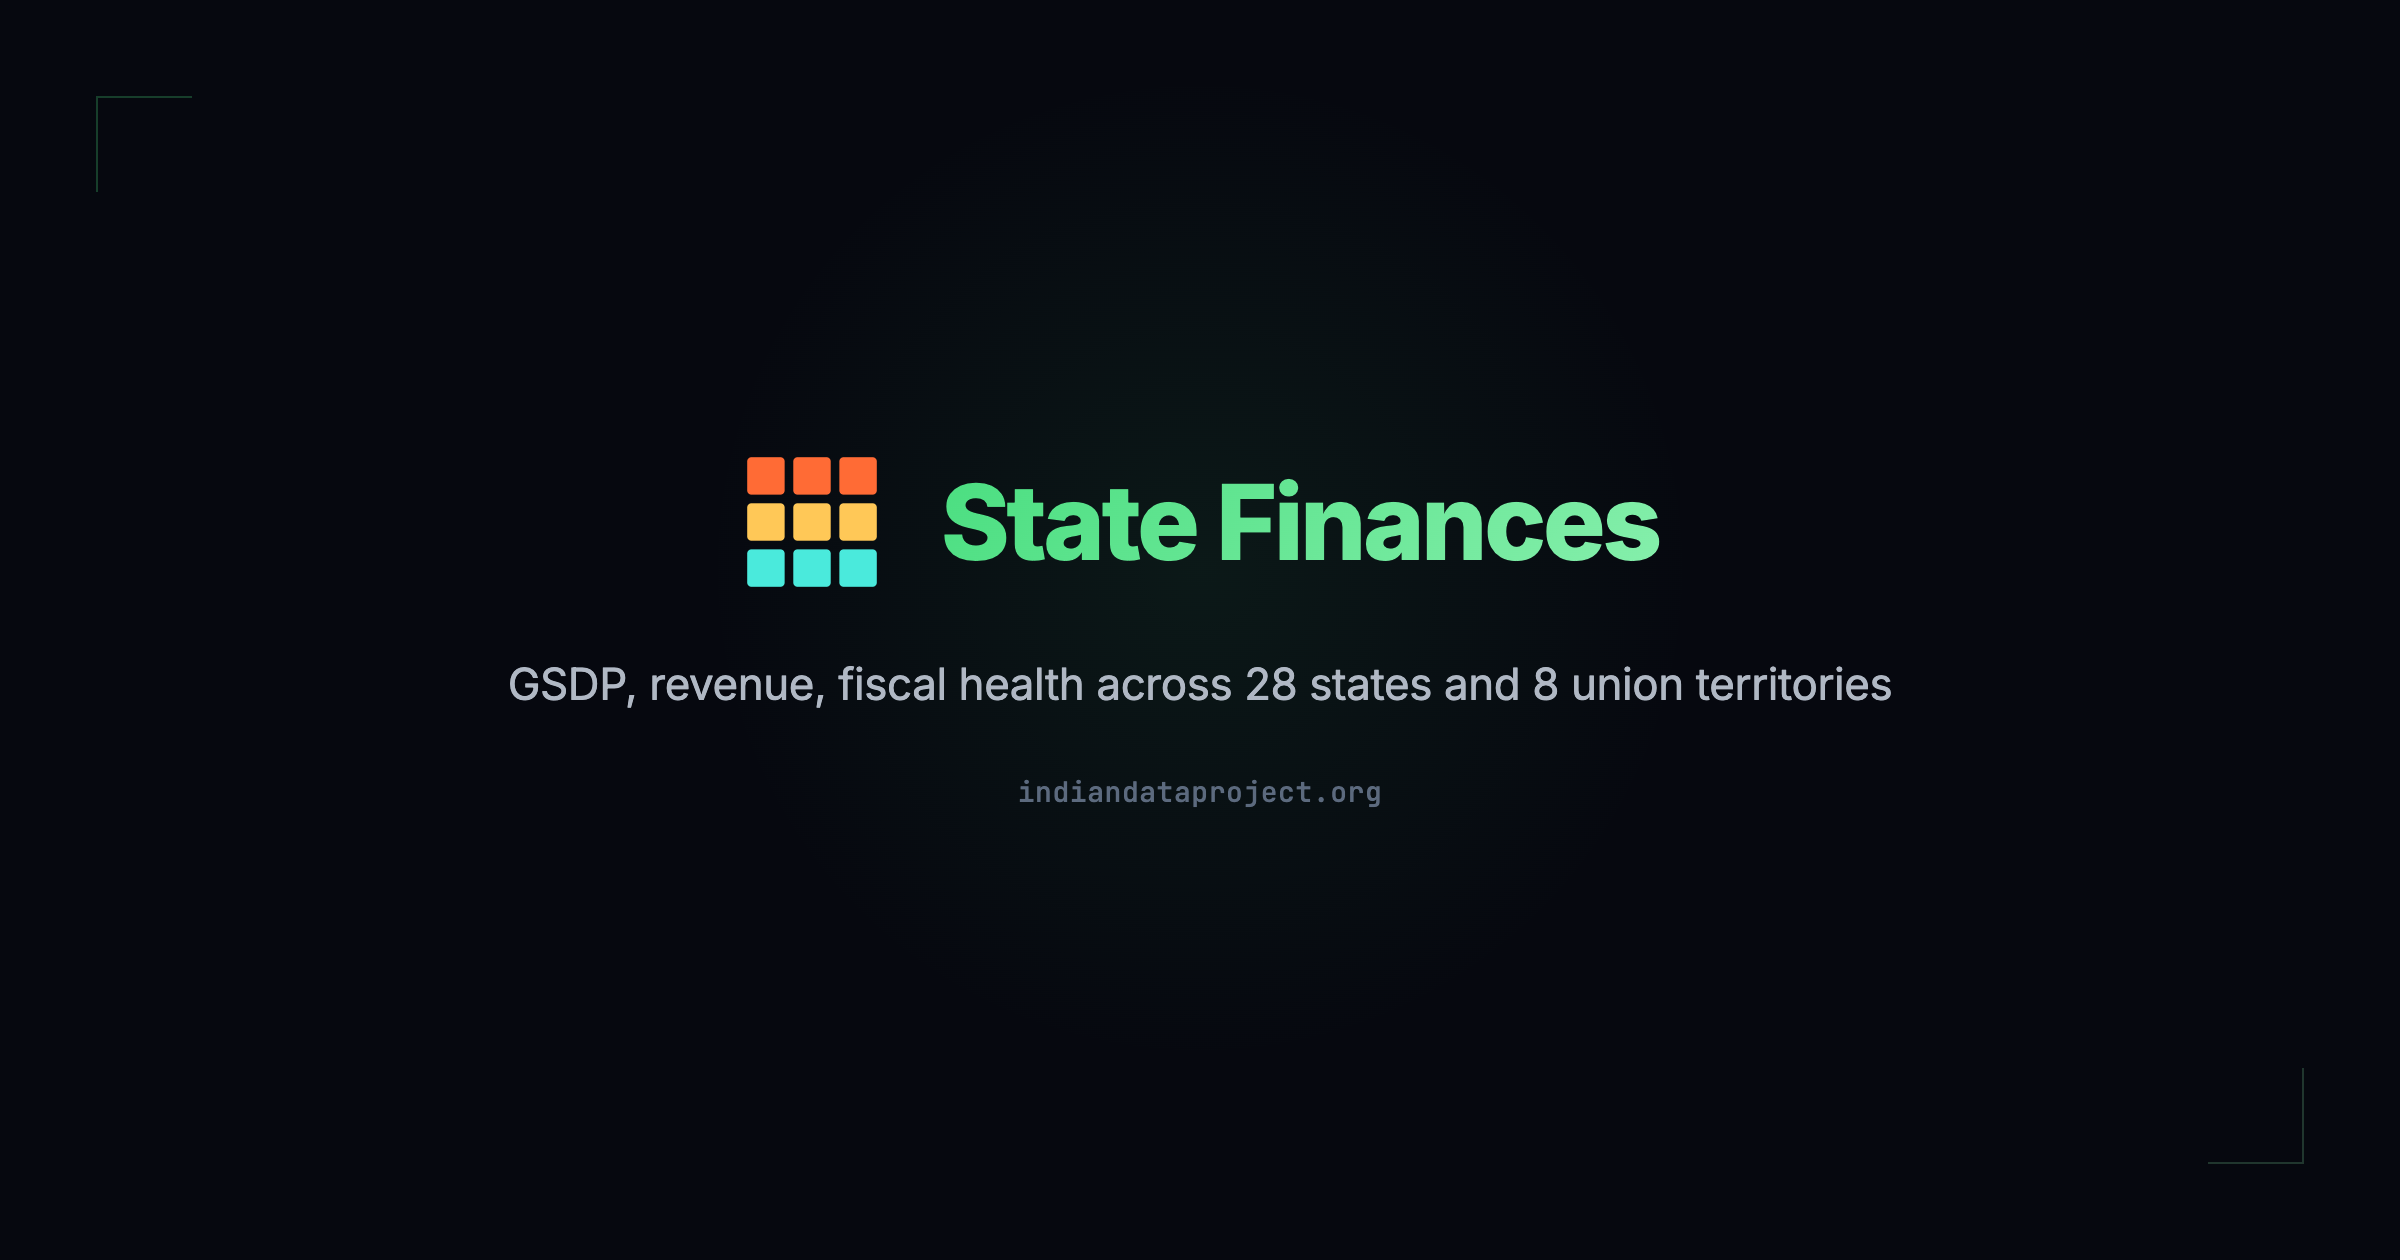
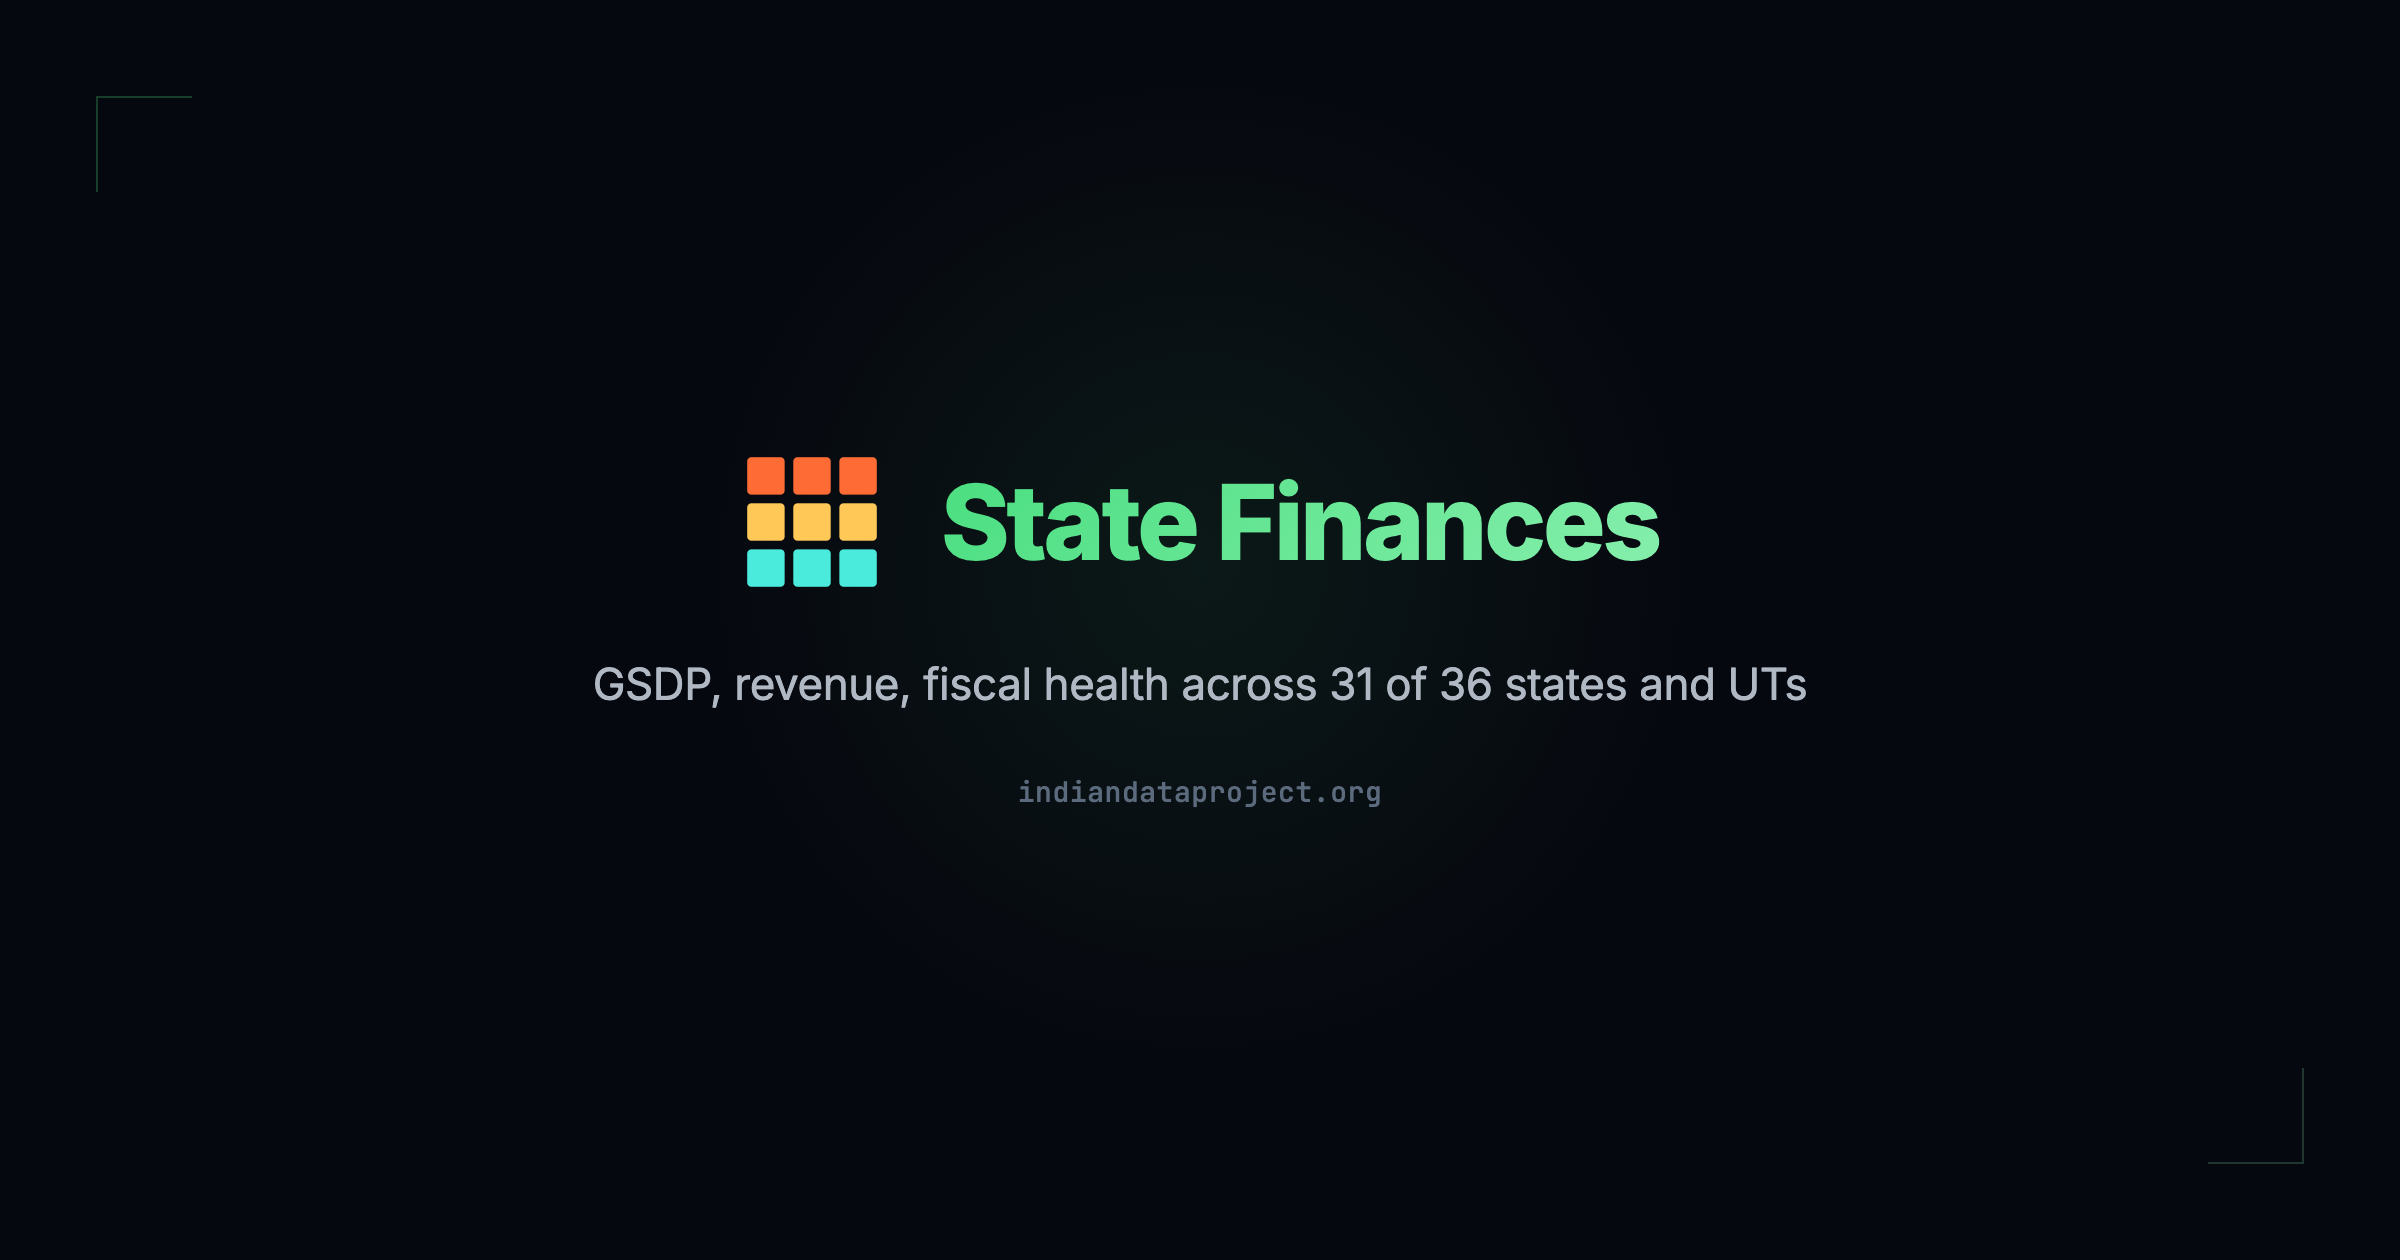
fix(content): resolve all 6 Codex round-12 cross-surface inconsistencies
- budget revenue receipts 34,20,905 -> 34,20,409 (index.html noscript,
  llms.txt) matching summary.json
- agriculture 15% GDP -> ~17% GVA (llms topic line, agriculture OG desc)
- healthcare: story-kit OOP ~48 -> ~45%, WHO beds 3 -> 3.5, doctor line
  now 0.7/1,000 actual vs WHO norm 1; llms OOP 48 -> 45%
- HealthcarePage Rs19/day -> Rs21/day (pill + bridge + highlight),
  matching the questions.json derivation (3.3% of Rs2,38,103 pc GDP)
- states coverage phrased as 31 of 36 states/UTs in index.html feature
  list + JSON-LD, inject-og and generate-og (OG cards regenerated)
- RBI docs: PIPELINE_DATA_SOURCES 56 -> 28 decisions Jan 2014-Dec 2025;
  CURATED_DATA_AUDIT supersession note extended with RBI clause

Claude-Session: https://claude.ai/code/session_01CXmejc6yxodKLUKZKHeqSA

Changed region(s): [[0.2188, 0.5262, 0.7812, 0.5571]]

diff --git a/src/lib/storyKitConfigs/health-infrastructure.ts b/src/lib/storyKitConfigs/health-infrastructure.ts
@@ -5,7 +5,7 @@ export const HEALTH_INFRASTRUCTURE: StoryKitDef = {
   title: "India's Health Infrastructure",
   subtitle: "COVID exposed the gaps. Three years later, how does India's health system measure up — in beds, doctors, spending, and immunization?",
   accent: '#F43F5E',
-  narrativeContext: `India has 0.5 hospital beds per 1,000 people against a WHO recommendation of 3. Out-of-pocket spending pushes 55 million people into poverty every year. Yet immunization coverage has risen to near-90%, and doctor density is slowly improving. This kit assembles the infrastructure, spending, and outcome data you need for any health system story.`,
+  narrativeContext: `India has 0.5 hospital beds per 1,000 people against a WHO recommendation of 3.5. Out-of-pocket spending pushes 55 million people into poverty every year. Yet immunization coverage has risen to near-90%, and doctor density is slowly improving. This kit assembles the infrastructure, spending, and outcome data you need for any health system story.`,
   charts: [
     {
       registryKey: 'healthcare/infrastructure',
@@ -17,7 +17,7 @@ export const HEALTH_INFRASTRUCTURE: StoryKitDef = {
     },
     {
       registryKey: 'healthcare/oop',
-      caption: 'Out-of-pocket expenditure: the hidden tax on illness. Indians pay ~48% of health costs from their own pockets — one of the highest rates globally.',
+      caption: 'Out-of-pocket expenditure: the hidden tax on illness. Indians pay ~45% of health costs from their own pockets — one of the highest rates globally.',
     },
     {
       registryKey: 'healthcare/immunization',
@@ -29,7 +29,7 @@ export const HEALTH_INFRASTRUCTURE: StoryKitDef = {
     },
   ],
   suggestedAngles: [
-    "The doctor deficit: India has 1 doctor per 1,000 people, but they're concentrated in cities. What does healthcare look like in rural India?",
+    "The doctor deficit: India has 0.7 allopathic doctors per 1,000 people (WHO norm: 1), and they're concentrated in cities. What does healthcare look like in rural India?",
     "Ayushman Bharat's promise vs. reality: has the world's largest health insurance scheme reduced out-of-pocket spending?",
     "The immunization success story: how India went from 62% to 90% DPT3 coverage in a decade.",
     "Medical debt and poverty: how a single hospitalization can push an Indian family below the poverty line.",

diff --git a/index.html b/index.html
@@ -70,7 +70,7 @@
         "RBI monetary policy trajectory and repo rate history",
         "Forex reserves and exchange rate visualization",
         "Credit growth and money supply analysis",
-        "State-wise GSDP, revenue, and fiscal health comparison across 36 states and UTs",
+        "State-wise GSDP, revenue, and fiscal health comparison across 31 of India's 36 states and UTs",
         "Census population structure, age demographics, and vital statistics",
         "Literacy gender gap visualization and state-wise literacy comparison",
         "Infant mortality and health indicators from NFHS-6 and SRS",
@@ -222,7 +222,7 @@
       "@context": "https://schema.org",
       "@type": "Dataset",
       "name": "India State Finances Data (FY 2022-23)",
-      "description": "Structured JSON datasets for Indian state finances: GSDP (current and constant prices), per capita income, own tax revenue vs central transfers, fiscal deficit, and debt-to-GSDP across 28 states and 8 union territories.",
+      "description": "Structured JSON datasets for Indian state finances: GSDP (current and constant prices), per capita income, own tax revenue vs central transfers, fiscal deficit, and debt-to-GSDP across 31 of India's 36 states and UTs (RBI Handbook coverage).",
       "url": "https://indiandataproject.org/states/explore",
       "license": "https://creativecommons.org/licenses/by/4.0/",
       "creator": {
@@ -605,7 +605,7 @@
         <h2>Union Budget 2025-26</h2>
         <ul>
           <li>Total Expenditure: Rs 50,65,345 crore</li>
-          <li>Revenue Receipts: Rs 34,20,905 crore</li>
+          <li>Revenue Receipts: Rs 34,20,409 crore</li>
           <li>Capital Expenditure: Rs 11,21,059 crore</li>
           <li>Fiscal Deficit: 4.4% of GDP</li>
         </ul>

diff --git a/src/pages/HealthcarePage.tsx b/src/pages/HealthcarePage.tsx
@@ -61,7 +61,7 @@ export default function HealthcarePage() {
       {summary && <KeyTakeaways
         accent="#F43F5E"
         pills={[
-          { value: '₹19/day', label: 'Per-capita health spending — less than a cup of chai', sectionId: 'spending' },
+          { value: '₹21/day', label: 'Per-capita health spending — about a cup of chai', sectionId: 'spending' },
           { value: `${summary.outOfPocketPct} paise`, label: 'Of every health rupee from your pocket — not the government', sectionId: 'oop' },
           { value: `${summary.hospitalBedsPer1000} beds`, label: 'Hospital beds per 1,000 people — WHO recommends 3.5', sectionId: 'infrastructure' },
           { value: `${summary.healthExpGDP}% GDP`, label: 'India spends on health — roughly half the global average', sectionId: 'spending' },
@@ -87,9 +87,9 @@ export default function HealthcarePage() {
       <div className="composition-divider" />
 
       <NarrativeBridge
-        text="Why is the infrastructure so thin? Follow the money. India spends roughly 19 rupees per citizen per day on health. Less than a cup of chai. This is not an inevitability; it is a choice."
+        text="Why is the infrastructure so thin? Follow the money. India spends roughly 21 rupees per citizen per day on health. About the price of a cup of chai. This is not an inevitability; it is a choice."
         highlights={{
-          '19': 'var(--rose)',
+          '21': 'var(--rose)',
           'chai': 'var(--saffron)',
           'choice': 'var(--saffron)',
         }}

diff --git a/pipeline/PIPELINE_DATA_SOURCES.md b/pipeline/PIPELINE_DATA_SOURCES.md
@@ -40,7 +40,7 @@ These are hardcoded data constants in Python files, sourced from government PDFs
 
 | Constant | File | Source | Data Vintage | Update Trigger |
 |----------|------|--------|-------------|----------------|
-| `REPO_RATE_DECISIONS` | `pipeline/src/rbi/transform/monetary_policy.py` | RBI MPC Statements (rbi.org.in) | 56 decisions, Feb 2014 to Feb 2026 | Bi-monthly: after each MPC meeting (~6x/year) |
+| `REPO_RATE_DECISIONS` | `pipeline/src/rbi/transform/monetary_policy.py` | RBI MPC Statements (rbi.org.in) | 28 decisions, Jan 2014 to Dec 2025 | Bi-monthly: after each MPC meeting (~6x/year) |
 | `CURRENT_RATES` | `pipeline/src/rbi/transform/monetary_policy.py` | RBI Current Rates page | As of Feb 6, 2026 | After any MPC rate change |
 | `CRR_HISTORY` | `pipeline/src/rbi/transform/monetary_policy.py` | RBI Handbook of Statistics, Table 45 | 12-year series (2014-2026) | After CRR changes (infrequent) |
 

diff --git a/pipeline/CURATED_DATA_AUDIT.md b/pipeline/CURATED_DATA_AUDIT.md
@@ -9,6 +9,7 @@
 > education to UDISE+ 2024-25, employment to PLFS Annual 2025 (KLEMS dropped).
 > The rows below describe the OLD vintages and are kept as a historical record;
 > current ground truth is `public/data/*/2025-26/*.json` + the provenance sidecars.
+> (RBI likewise moved on: 28 repo decisions through Dec 2025, repo 5.25%, CRR 3.0%.)
 **Scope**: All 11 domains, curated data constants in `pipeline/src/*/sources/curated.py`
 **Method**: 9 parallel verification agents cross-referencing curated values against authoritative government publications, followed by manual PDF verification against UDISE+ 2023-24, ASER 2024 Final Report, NFHS-5 dataset, and ADR 2024 analysis
 
